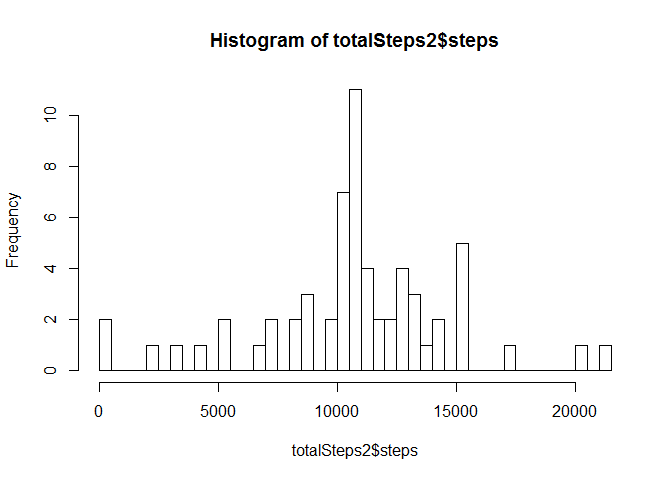
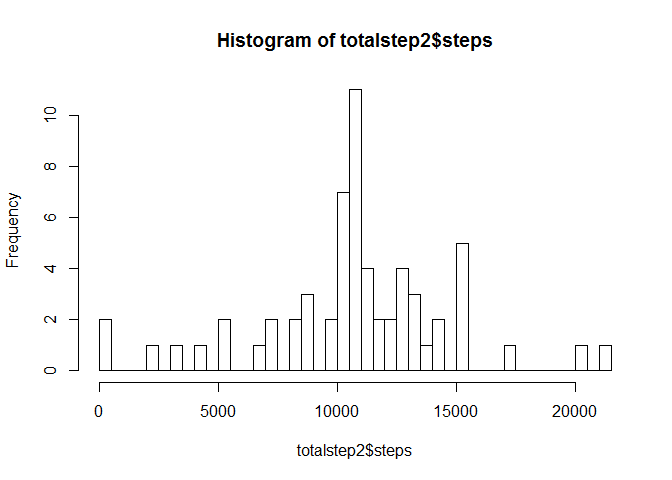
Modify the Rmd
3rd committe

Changed region(s): [[0.3125, 0.0625, 0.75, 0.125], [0.4375, 0.9062, 0.625, 0.9688]]

diff --git a/PA1_template.html b/PA1_template.html
@@ -54,9 +54,18 @@ if (window.hljs && document.readyState && document.readyState === "complete") {
 <div id="header">
 <h1 class="title">Reproducible Research: Peer Assessment 1</h1>
 <h4 class="author"><em>Marcus Chen</em></h4>
-<h4 class="date"><em>Saturday, December 06, 2014</em></h4>
+<h4 class="date"><em>Saturday, December 13, 2014</em></h4>
 </div>
 
+<div id="TOC">
+<ul>
+<li><a href="#loading-the-data">Loading the data</a></li>
+<li><a href="#what-is-mean-total-number-of-steps-taken-per-day">What is mean total number of steps taken per day?</a></li>
+<li><a href="#what-is-the-average-daily-activity-pattern">What is the average daily activity pattern?</a></li>
+<li><a href="#imputing-missing-values">Imputing missing values</a></li>
+<li><a href="#are-there-differences-in-activity-patterns-between-weekdays-and-weekends">Are there differences in activity patterns between weekdays and weekends?</a></li>
+</ul>
+</div>
 
 <div id="loading-the-data" class="section level2">
 <h2>Loading the data</h2>
@@ -68,101 +77,100 @@ activity&lt;-read.csv('activity.csv',na.strings = &quot;NA&quot;,colClasses = c(
 <ul>
 <li>Process/transform the data (if necessary) into a format suitable for your analysis</li>
 </ul>
-<pre class="r"><code>totalSteps&lt;-aggregate(steps~date,data=activity,sum,na.rm=TRUE)</code></pre>
+<pre class="r"><code>totalstep&lt;-aggregate(steps~date,data=activity,sum,na.rm=TRUE)</code></pre>
 </div>
 <div id="what-is-mean-total-number-of-steps-taken-per-day" class="section level2">
 <h2>What is mean total number of steps taken per day?</h2>
-<ul>
-<li>Make a histogram of the total number of steps taken each day</li>
-</ul>
-<pre class="r"><code>hist(totalSteps$steps,breaks=50)</code></pre>
[1 lines of base64/hex data omitted]
-<pre class="r"><code>mean(totalSteps$steps)</code></pre>
+<p>1.Make a histogram of the total number of steps taken each day</p>
+<pre class="r"><code>hist(totalstep$steps,breaks=50,main='Hist of Steps in Total Step')</code></pre>
[1 lines of base64/hex data omitted]
+<pre class="r"><code>mean(totalstep$steps)</code></pre>
 <pre><code>## [1] 10766.19</code></pre>
-<pre class="r"><code>median(totalSteps$steps)</code></pre>
+<pre class="r"><code>median(totalstep$steps)</code></pre>
 <pre><code>## [1] 10765</code></pre>
 <ul>
-<li>The <strong>mean</strong> total number of steps taken per day is 1.076618910^{4} steps.</li>
-<li>The <strong>median</strong> total number of steps taken per day is 10765 steps.</li>
+<li>The mean total number of steps taken per day is 10766.19 steps.<br /></li>
+<li>The median total number of steps taken per day is 10765 steps.</li>
 </ul>
 </div>
 <div id="what-is-the-average-daily-activity-pattern" class="section level2">
 <h2>What is the average daily activity pattern?</h2>
-<ul>
+<ol style="list-style-type: decimal">
 <li>Make a time series plot (i.e. type = “l”) of the 5-minute interval (x-axis) and the average number of steps taken, averaged across all days (y-axis)</li>
-</ul>
-<pre class="r"><code>stepsInterval&lt;-aggregate(steps~interval,data=activity,mean,na.rm=TRUE)
-plot(steps~interval,data=stepsInterval,type=&quot;l&quot;)</code></pre>
+</ol>
+<pre class="r"><code>intervalOfStep&lt;-aggregate(steps~interval,data=activity,mean,na.rm=TRUE)
+plot(steps~interval,data=intervalOfStep,type=&quot;l&quot;)</code></pre>
[1 lines of base64/hex data omitted]
-<ul>
+<ol start="2" style="list-style-type: decimal">
 <li>Which 5-minute interval, on average across all the days in the dataset, contains the maximum number of steps?</li>
-</ul>
-<pre class="r"><code>stepsInterval[which.max(stepsInterval$steps),]$interval</code></pre>
+</ol>
+<pre class="r"><code>intervalOfStep[which.max(intervalOfStep$steps),]$interval</code></pre>
 <pre><code>## [1] 835
 ## 288 Levels: 0 10 100 1000 1005 1010 1015 1020 1025 1030 1035 1040 ... 955</code></pre>
 <p>It is the <strong>835th</strong> interval.</p>
 </div>
 <div id="imputing-missing-values" class="section level2">
 <h2>Imputing missing values</h2>
-<ul>
+<ol style="list-style-type: decimal">
 <li>Calculate and report the total number of missing values in the dataset (i.e. the total number of rows with NAs)</li>
-</ul>
+</ol>
 <pre class="r"><code>sum(is.na(activity$steps))</code></pre>
 <pre><code>## [1] 2304</code></pre>
-<p>There are 2304 rows are missing.</p>
 <ul>
+<li>There are 2304 rows are missing.</li>
+</ul>
+<ol start="2" style="list-style-type: decimal">
 <li>Devise a strategy for filling in all of the missing values in the dataset. The strategy does not need to be sophisticated. For example, you could use the mean/median for that day, or the mean for that 5-minute interval, etc.</li>
+</ol>
+<ul>
+<li>The missing values are filled with the mean step of that interval.</li>
 </ul>
-<p>: I used a strategy for filing in all of the missing values with the mean for that 5-minute interval. First of all, I made a function <strong>“interval2steps”</strong> to get the mean steps for particular 5-minute interval.</p>
 <pre class="r"><code>interval2steps&lt;-function(interval){
-    stepsInterval[stepsInterval$interval==interval,]$steps
+    intervalOfStep[intervalOfStep$interval==interval,]$steps
 }</code></pre>
-<ul>
+<ol start="3" style="list-style-type: decimal">
 <li>Create a new dataset that is equal to the original dataset but with the missing data filled in.</li>
-</ul>
-<pre class="r"><code>activityFilled&lt;-activity   # Make a new dataset with the original data
-count=0           # Count the number of data filled in
-for(i in 1:nrow(activityFilled)){
-    if(is.na(activityFilled[i,]$steps)){
-        activityFilled[i,]$steps&lt;-interval2steps(activityFilled[i,]$interval)
-        count=count+1
+</ol>
+<pre class="r"><code>activity.new&lt;-activity   # Make a new dataset with the original data
+for(i in 1:nrow(activity.new)){
+    if(is.na(activity.new[i,]$steps)){
+        activity.new[i,]$steps&lt;-interval2steps(activity.new[i,]$interval)
+       
     }
-}
-cat(&quot;Total &quot;,count, &quot;NA values were filled.\n\r&quot;)  </code></pre>
-<pre><code>## Total  2304 NA values were filled.
-## </code></pre>
-<ul>
+}</code></pre>
+<ol start="4" style="list-style-type: decimal">
 <li>Make a histogram of the total number of steps taken each day and Calculate and report the mean and median total number of steps taken per day.</li>
-</ul>
-<pre class="r"><code>totalSteps2&lt;-aggregate(steps~date,data=activityFilled,sum)
-hist(totalSteps2$steps,breaks=50)</code></pre>
[1 lines of base64/hex data omitted]
-<pre class="r"><code>mean(totalSteps2$steps)</code></pre>
+</ol>
+<pre class="r"><code>totalstep2&lt;-aggregate(steps~date,data=activity.new,sum)
+hist(totalstep2$steps,breaks=50)</code></pre>
[1 lines of base64/hex data omitted]
+<pre class="r"><code>mean(totalstep2$steps)</code></pre>
 <pre><code>## [1] 10766.19</code></pre>
-<pre class="r"><code>median(totalSteps2$steps)</code></pre>
+<pre class="r"><code>median(totalstep2$steps)</code></pre>
 <pre><code>## [1] 10766.19</code></pre>
 <ul>
-<li>The <strong>mean</strong> total number of steps taken per day is 1.076618910^{4} steps.</li>
-<li><p>The <strong>median</strong> total number of steps taken per day is 1.076618910^{4} steps.</p></li>
-<li><p>Do these values differ from the estimates from the first part of the assignment? What is the impact of imputing missing data on the estimates of the total daily number of steps?</p></li>
+<li>The mean total number(10766.19) of steps taken per day is equal to the median total number(10766.19) of steps taken per day.</li>
 </ul>
-<p>: The <strong>mean</strong> value is the <strong>same</strong> as the value before imputing missing data because we put the mean value for that particular 5-min interval. The median value shows <strong>a little</strong> difference : but it depends on <strong>where the missing values are</strong>.</p>
+<ol start="5" style="list-style-type: decimal">
+<li>Do these values differ from the estimates from the first part of the assignment? What is the impact of imputing missing data on the estimates of the total daily number of steps?<br /></li>
+</ol>
+<ul>
+<li>The mean value is the smae, however the median value changed a little to align with mean value.</li>
+</ul>
 </div>
 <div id="are-there-differences-in-activity-patterns-between-weekdays-and-weekends" class="section level2">
 <h2>Are there differences in activity patterns between weekdays and weekends?</h2>
 <ul>
-<li>Create a new factor variable in the dataset with two levels ?? ?eekday?? and ?eekend?? indicating whether a given date is a weekday or weekend day.</li>
+<li>Create a new factor variable in the dataset with two levels “weekday” and “weekend” indicating whether a given date is a weekday or weekend day.</li>
 </ul>
-<pre class="r"><code>activityFilled$day=ifelse(as.POSIXlt(as.Date(activityFilled$date))$wday%%6==0,
-                          &quot;weekend&quot;,&quot;weekday&quot;)
-# For Sunday and Saturday : weekend, Other days : weekday 
-activityFilled$day=factor(activityFilled$day,levels=c(&quot;weekday&quot;,&quot;weekend&quot;))</code></pre>
+<pre class="r"><code>activity.new$day=ifelse(as.POSIXlt(as.Date(activity.new$date))$wday%%6==0,&quot;weekend&quot;,&quot;weekday&quot;) 
+activity.new$day=factor(activity.new$day,levels=c(&quot;weekday&quot;,&quot;weekend&quot;))</code></pre>
 <ul>
 <li>Make a panel plot containing a time series plot (i.e. type = “l”) of the 5-minute interval (x-axis) and the average number of steps taken, averaged across all weekday days or weekend days (y-axis). The plot should look something like the following, which was creating using simulated data:</li>
 </ul>
-<pre class="r"><code>stepsInterval2=aggregate(steps~interval+day,activityFilled,mean)
+<pre class="r"><code>intervalByDay=aggregate(steps~interval+day,activity.new,mean)
 library(lattice)
-xyplot(steps~interval|factor(day),data=stepsInterval2,aspect=1/2,type=&quot;l&quot;)</code></pre>
+xyplot(steps~interval|factor(day),data=intervalByDay,aspect=1/2,type=&quot;l&quot;)</code></pre>
[1 lines of base64/hex data omitted]
 </div>
 

diff --git a/PA1_template.md b/PA1_template.md
@@ -1,6 +1,6 @@
 # Reproducible Research: Peer Assessment 1
 Marcus Chen  
-Saturday, December 06, 2014  
+Saturday, December 13, 2014  
 ## Loading the data  
 
 
@@ -20,23 +20,23 @@ activity<-read.csv('activity.csv',na.strings = "NA",colClasses = c("integer", "D
 * Process/transform the data (if necessary) into a format suitable for your analysis
 
 ```r
-totalSteps<-aggregate(steps~date,data=activity,sum,na.rm=TRUE)
+totalstep<-aggregate(steps~date,data=activity,sum,na.rm=TRUE)
 ```
 
 ## What is mean total number of steps taken per day?  
 
-* Make a histogram of the total number of steps taken each day
+1.Make a histogram of the total number of steps taken each day
 
 ```r
-hist(totalSteps$steps,breaks=50)
+hist(totalstep$steps,breaks=50,main='Hist of Steps in Total Step')
 ```
 
 ![](./PA1_template_files/figure-html/unnamed-chunk-3-1.png) 
-* Calculate and report the **mean** and **median** total number of steps taken per day  
+2.Calculate and report the **mean** and **median** total number of steps taken per day  
 
 
 ```r
-mean(totalSteps$steps)
+mean(totalstep$steps)
 ```
 
 ```
@@ -44,33 +44,31 @@ mean(totalSteps$steps)
 ```
 
 ```r
-median(totalSteps$steps)
+median(totalstep$steps)
 ```
 
 ```
 ## [1] 10765
 ```
-* The **mean** total number of steps taken per day is 
-    1.0766189\times 10^{4} steps.
-* The **median** total number of steps taken per day is 
-    10765 steps.
+* The mean total number of steps taken per day is 10766.19 steps.  
+* The median total number of steps taken per day is 10765 steps.  
     
 ## What is the average daily activity pattern?  
 
-* Make a time series plot (i.e. type = "l") of the 5-minute interval (x-axis) and the average number of steps taken, averaged across all days (y-axis)
+1. Make a time series plot (i.e. type = "l") of the 5-minute interval (x-axis) and the average number of steps taken, averaged across all days (y-axis)
 
 
 ```r
-stepsInterval<-aggregate(steps~interval,data=activity,mean,na.rm=TRUE)
-plot(steps~interval,data=stepsInterval,type="l")
+intervalOfStep<-aggregate(steps~interval,data=activity,mean,na.rm=TRUE)
+plot(steps~interval,data=intervalOfStep,type="l")
 ```
 
 ![](./PA1_template_files/figure-html/unnamed-chunk-5-1.png) 
 
-* Which 5-minute interval, on average across all the days in the dataset, contains the maximum number of steps? 
+2. Which 5-minute interval, on average across all the days in the dataset, contains the maximum number of steps?  
 
 ```r
-stepsInterval[which.max(stepsInterval$steps),]$interval
+intervalOfStep[which.max(intervalOfStep$steps),]$interval
 ```
 
 ```
@@ -82,7 +80,7 @@ It is the **835th** interval.
 
 ## Imputing missing values  
 
-* Calculate and report the total number of missing values in the dataset (i.e. the total number of rows with NAs)
+1. Calculate and report the total number of missing values in the dataset (i.e. the total number of rows with NAs)
 
 ```r
 sum(is.na(activity$steps))
@@ -91,49 +89,42 @@ sum(is.na(activity$steps))
 ```
 ## [1] 2304
 ```
-There are 2304 rows are missing.
+* There are 2304 rows are missing.  
 
-* Devise a strategy for filling in all of the missing values in the dataset. The strategy does not need to be sophisticated. For example, you could use the mean/median for that day, or the mean for that 5-minute interval, etc.
+2. Devise a strategy for filling in all of the missing values in the dataset. The strategy does not need to be sophisticated. For example, you could use the mean/median for that day, or the mean for that 5-minute interval, etc.  
 
-: I used a strategy for filing in all of the missing values with the mean for that 5-minute interval. First of all, I made a function **"interval2steps"** to get the mean steps for particular 5-minute interval. 
+* The missing values are filled with the mean step of that interval.  
 
 ```r
 interval2steps<-function(interval){
-    stepsInterval[stepsInterval$interval==interval,]$steps
+    intervalOfStep[intervalOfStep$interval==interval,]$steps
 }
 ```
 
-* Create a new dataset that is equal to the original dataset but with the missing data filled in.
+3. Create a new dataset that is equal to the original dataset but with the missing data filled in.
 
 
 ```r
-activityFilled<-activity   # Make a new dataset with the original data
-count=0           # Count the number of data filled in
-for(i in 1:nrow(activityFilled)){
-    if(is.na(activityFilled[i,]$steps)){
-        activityFilled[i,]$steps<-interval2steps(activityFilled[i,]$interval)
-        count=count+1
+activity.new<-activity   # Make a new dataset with the original data
+for(i in 1:nrow(activity.new)){
+    if(is.na(activity.new[i,]$steps)){
+        activity.new[i,]$steps<-interval2steps(activity.new[i,]$interval)
+       
     }
 }
-cat("Total ",count, "NA values were filled.\n\r")  
 ```
 
-```
-## Total  2304 NA values were filled.
-## 
-```
-
-* Make a histogram of the total number of steps taken each day and Calculate and report the mean and median total number of steps taken per day. 
+4. Make a histogram of the total number of steps taken each day and Calculate and report the mean and median total number of steps taken per day. 
 
 ```r
-totalSteps2<-aggregate(steps~date,data=activityFilled,sum)
-hist(totalSteps2$steps,breaks=50)
+totalstep2<-aggregate(steps~date,data=activity.new,sum)
+hist(totalstep2$steps,breaks=50)
 ```
 
 ![](./PA1_template_files/figure-html/unnamed-chunk-10-1.png) 
 
 ```r
-mean(totalSteps2$steps)
+mean(totalstep2$steps)
 ```
 
 ```
@@ -141,39 +132,34 @@ mean(totalSteps2$steps)
 ```
 
 ```r
-median(totalSteps2$steps)
+median(totalstep2$steps)
 ```
 
 ```
 ## [1] 10766.19
 ```
-* The **mean** total number of steps taken per day is 
-1.0766189\times 10^{4} steps.
-* The **median** total number of steps taken per day is 
-1.0766189\times 10^{4} steps.
+* The mean total number(10766.19) of steps taken per day is equal to the median total number(10766.19) of steps taken per day.   
 
-* Do these values differ from the estimates from the first part of the assignment? What is the impact of imputing missing data on the estimates of the total daily number of steps?
 
-: The **mean** value is the **same** as the value before imputing missing data because we put the mean value for that particular 5-min interval. The median value shows **a little** difference : but it depends on **where the missing values are**.
+5. Do these values differ from the estimates from the first part of the assignment? What is the impact of imputing missing data on the estimates of the total daily number of steps?  
+* The mean value is the smae, however the median value changed a little to align with mean value.    
 
 ## Are there differences in activity patterns between weekdays and weekends?   
 
-* Create a new factor variable in the dataset with two levels ?? ?eekday?? and ?eekend?? indicating whether a given date is a weekday or weekend day.
+* Create a new factor variable in the dataset with two levels “weekday” and “weekend” indicating whether a given date is a weekday or weekend day.
 
 ```r
-activityFilled$day=ifelse(as.POSIXlt(as.Date(activityFilled$date))$wday%%6==0,
-                          "weekend","weekday")
-# For Sunday and Saturday : weekend, Other days : weekday 
-activityFilled$day=factor(activityFilled$day,levels=c("weekday","weekend"))
+activity.new$day=ifelse(as.POSIXlt(as.Date(activity.new$date))$wday%%6==0,"weekend","weekday") 
+activity.new$day=factor(activity.new$day,levels=c("weekday","weekend"))
 ```
 
 
 * Make a panel plot containing a time series plot (i.e. type = "l") of the 5-minute interval (x-axis) and the average number of steps taken, averaged across all weekday days or weekend days (y-axis). The plot should look something like the following, which was creating using simulated data:
 
 ```r
-stepsInterval2=aggregate(steps~interval+day,activityFilled,mean)
+intervalByDay=aggregate(steps~interval+day,activity.new,mean)
 library(lattice)
-xyplot(steps~interval|factor(day),data=stepsInterval2,aspect=1/2,type="l")
+xyplot(steps~interval|factor(day),data=intervalByDay,aspect=1/2,type="l")
 ```
 
 ![](./PA1_template_files/figure-html/unnamed-chunk-12-1.png) 
